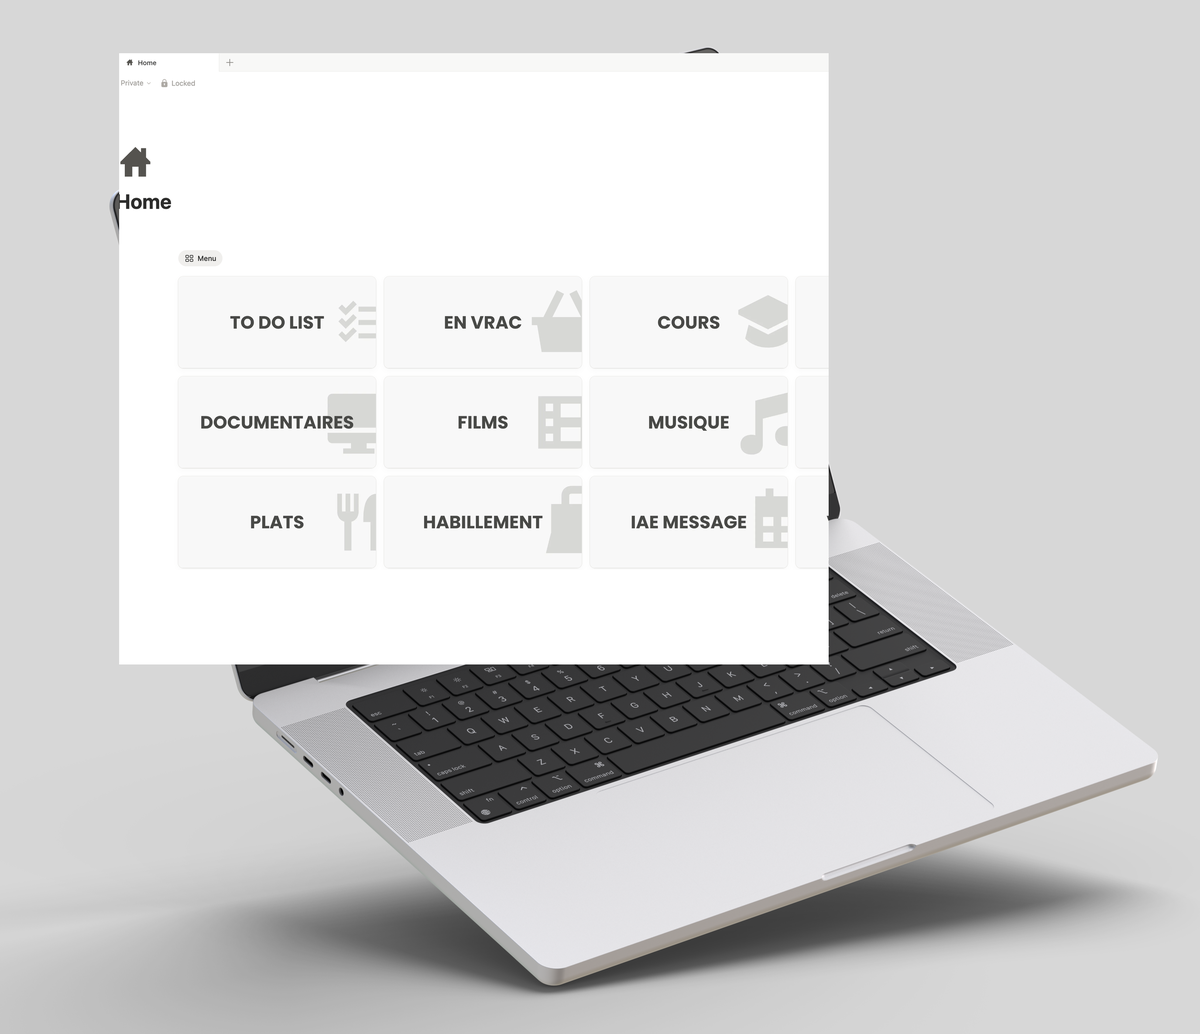
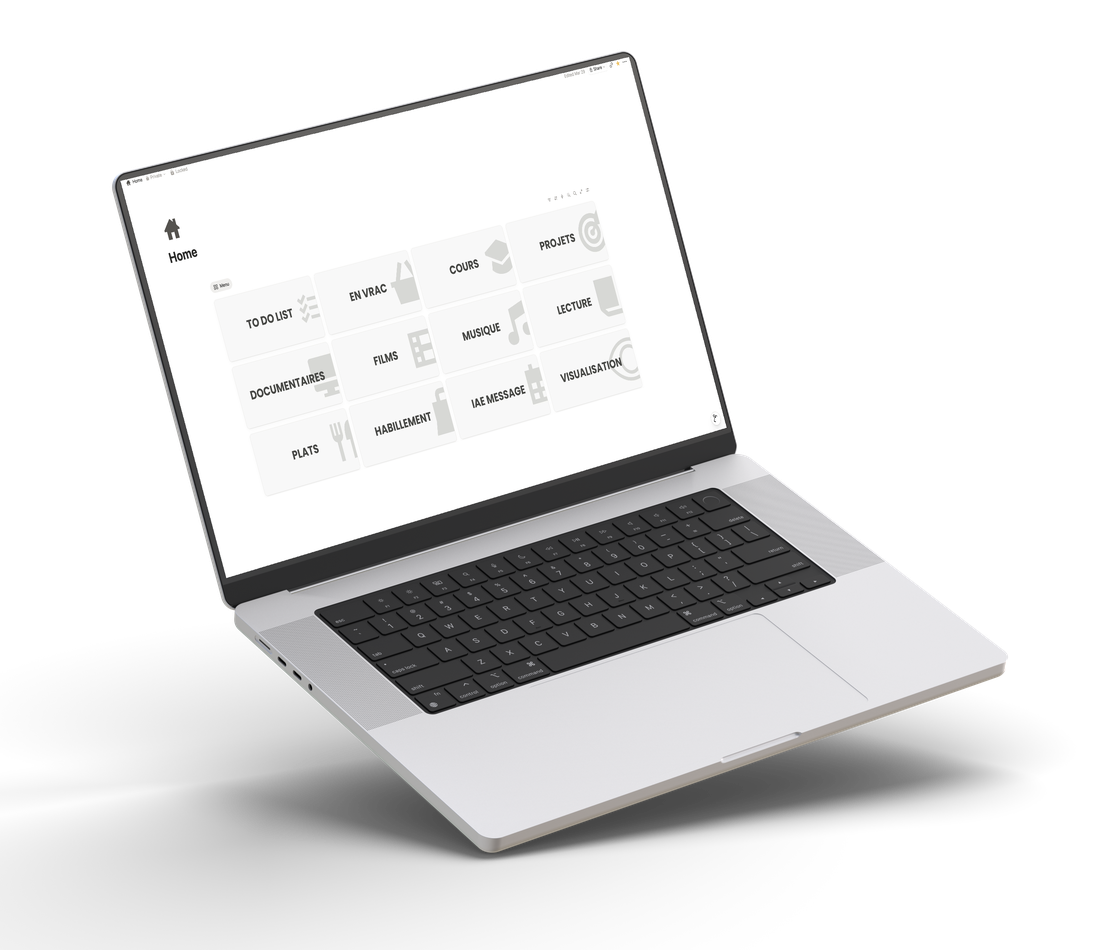
Mockup MacBook Pro 16" : Notion dans l'écran, fond transparent
- Warp perspectif exact (4 coins du transform_box du smart object PSD)
- Masque polygonal précis = la zone d'écran du laptop
- Fond transparent : composite du groupe Mockup seul (sans Background)
- Le MacBook flotte sur le site, ombre naturelle visible
- Cache bust v=13

diff --git a/competences.html b/competences.html
@@ -8,7 +8,7 @@
   <link rel="preconnect" href="https://fonts.googleapis.com">
   <link rel="preconnect" href="https://fonts.gstatic.com" crossorigin>
   <link href="https://fonts.googleapis.com/css2?family=DM+Serif+Display&family=Inter:wght@400;500;600&display=swap" rel="stylesheet">
-  <link rel="stylesheet" href="css/style.css?v=12">
+  <link rel="stylesheet" href="css/style.css?v=13">
 </head>
 <body>
 
@@ -51,7 +51,7 @@
     </div>
   </footer>
 
-  <script src="js/data.js?v=12"></script>
-  <script src="js/main.js?v=12"></script>
+  <script src="js/data.js?v=13"></script>
+  <script src="js/main.js?v=13"></script>
 </body>
 </html>

diff --git a/contact.html b/contact.html
@@ -8,7 +8,7 @@
   <link rel="preconnect" href="https://fonts.googleapis.com">
   <link rel="preconnect" href="https://fonts.gstatic.com" crossorigin>
   <link href="https://fonts.googleapis.com/css2?family=DM+Serif+Display&family=Inter:wght@400;500;600&display=swap" rel="stylesheet">
-  <link rel="stylesheet" href="css/style.css?v=12">
+  <link rel="stylesheet" href="css/style.css?v=13">
 </head>
 <body>
 
@@ -127,7 +127,7 @@
     </div>
   </footer>
 
-  <script src="js/data.js?v=12"></script>
-  <script src="js/main.js?v=12"></script>
+  <script src="js/data.js?v=13"></script>
+  <script src="js/main.js?v=13"></script>
 </body>
 </html>

diff --git a/index.html b/index.html
@@ -8,7 +8,7 @@
   <link rel="preconnect" href="https://fonts.googleapis.com">
   <link rel="preconnect" href="https://fonts.gstatic.com" crossorigin>
   <link href="https://fonts.googleapis.com/css2?family=DM+Serif+Display&family=Inter:wght@400;500;600&display=swap" rel="stylesheet">
-  <link rel="stylesheet" href="css/style.css?v=12">
+  <link rel="stylesheet" href="css/style.css?v=13">
 </head>
 <body>
 
@@ -105,7 +105,7 @@
     </div>
   </footer>
 
-  <script src="js/data.js?v=12"></script>
-  <script src="js/main.js?v=12"></script>
+  <script src="js/data.js?v=13"></script>
+  <script src="js/main.js?v=13"></script>
 </body>
 </html>

diff --git a/parcours.html b/parcours.html
@@ -8,7 +8,7 @@
   <link rel="preconnect" href="https://fonts.googleapis.com">
   <link rel="preconnect" href="https://fonts.gstatic.com" crossorigin>
   <link href="https://fonts.googleapis.com/css2?family=DM+Serif+Display&family=Inter:wght@400;500;600&display=swap" rel="stylesheet">
-  <link rel="stylesheet" href="css/style.css?v=12">
+  <link rel="stylesheet" href="css/style.css?v=13">
 </head>
 <body>
 
@@ -65,7 +65,7 @@
     </div>
   </footer>
 
-  <script src="js/data.js?v=12"></script>
-  <script src="js/main.js?v=12"></script>
+  <script src="js/data.js?v=13"></script>
+  <script src="js/main.js?v=13"></script>
 </body>
 </html>